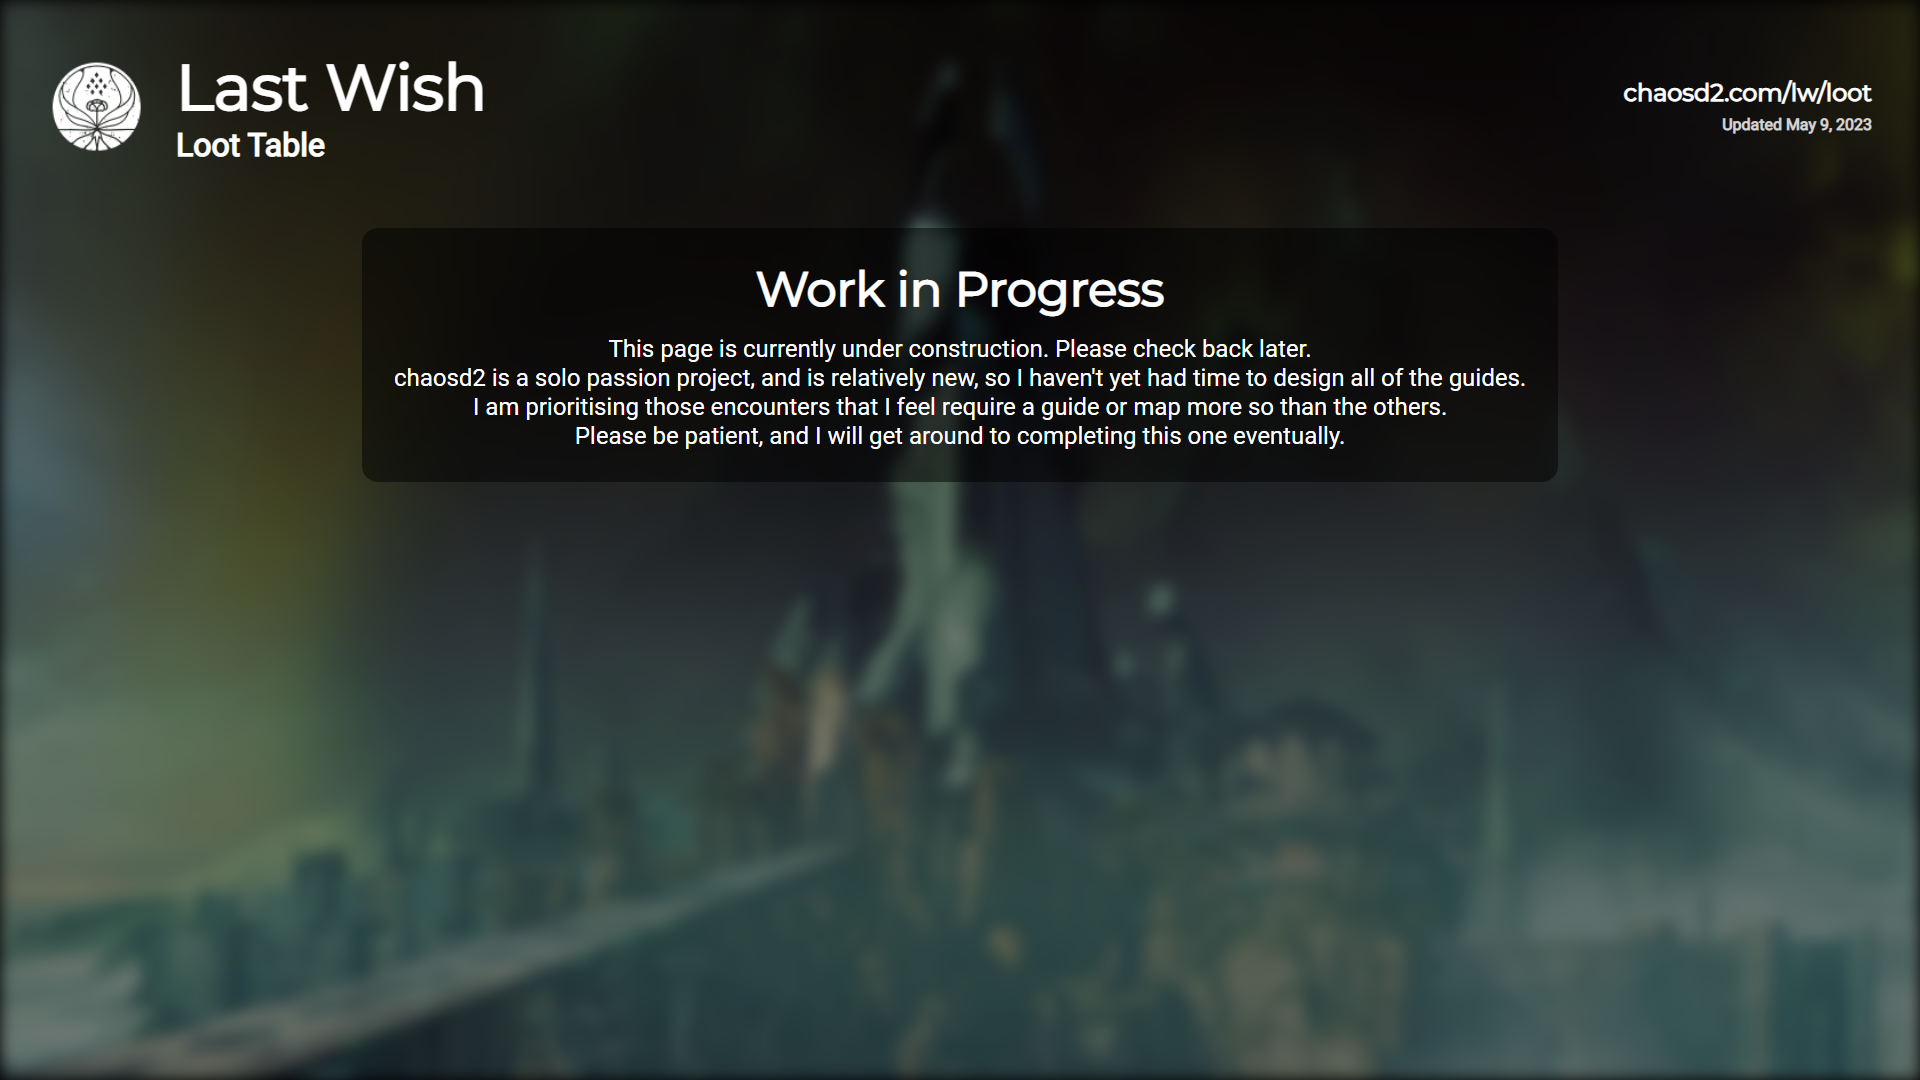
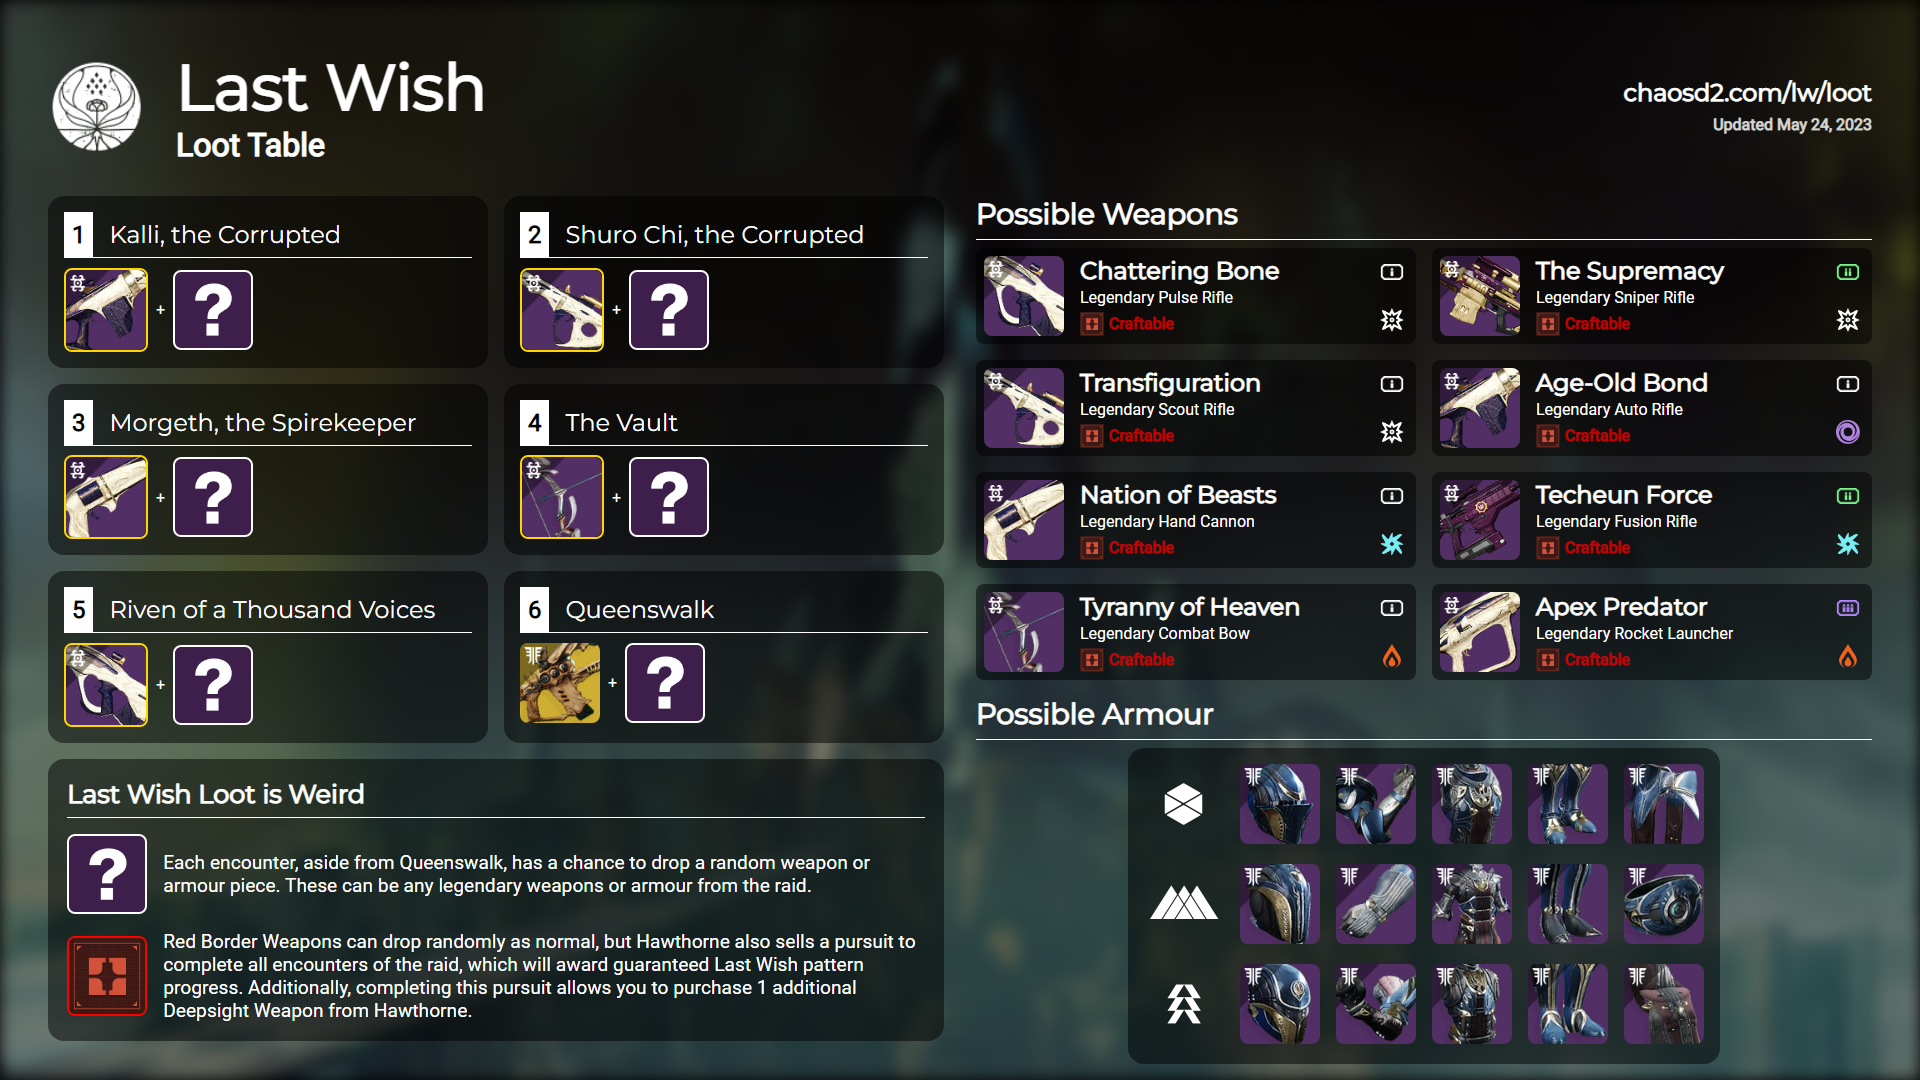
Added Last Wish Loot table

diff --git a/src/app/image_sources/raids/last_wish/loot/page.js b/src/app/image_sources/raids/last_wish/loot/page.js
@@ -3,7 +3,11 @@ import ImageHeader from "@image_components/ImageHeader";
 import Image from "next/image";
 import Background from "@backgrounds/last_wish.jpg";
 import {BungieIcons} from "@components/BungieIcons";
-import ImageUnderConstruction from "@image_components/ImageUnderConstruction";
+import custom from "./custom.module.css";
+import {get_item_definition} from "@lib/bungie/APIHandler";
+import ItemInsert from "@image_components/ItemInsert";
+import CombinedImage from "@image_components/CombinedImage";
+import {ClassIcons} from "@image_components/ClassIcons";
 
 /* TODO: This is a placeholder page. */
 
@@ -14,16 +18,128 @@ export const metadata = {
     }
 }
 
+const armour_hashes = {
+    Titan: [
+        3546379828,
+        1952647501,
+        1146451699,
+        2623446543,
+        3351877674
+    ],
+    Warlock: [
+        1350126011,
+        2850984298,
+        4241329310,
+        1890196228,
+        3570956455
+    ],
+    Hunter: [
+        3423279826,
+        3889633083,
+        2180477077,
+        2298096557,
+        877968616
+    ],
+}
+
 export default function LWLoot() {
     return (
         <body className={styles.main}>
             <Image src={Background} alt={""} className={styles.background}/>
             <div className={styles.wrapper}>
                 <ImageHeader title={"Last Wish"} subtitle={"Loot Table"} icon={BungieIcons.raids.last_wish} href={"chaosd2.com/lw/loot"}/>
-                <div className={styles.content}>
-                    <ImageUnderConstruction/>
+                <div className={custom.content}>
+                    <div className={custom.left}>
+                        <div className={custom.encounter_table}>
+                            <Encounter num={1} name={"Kalli, the Corrupted"} item_hash={424291879}/>
+                            <Encounter num={2} name={"Shuro Chi, the Corrupted"} item_hash={3885259140}/>
+                            <Encounter num={3} name={"Morgeth, the Spirekeeper"} item_hash={70083888}/>
+                            <Encounter num={4} name={"The Vault"} item_hash={3388655311}/>
+                            <Encounter num={5} name={"Riven of a Thousand Voices"} item_hash={501329015}/>
+                            <Encounter num={6} name={"Queenswalk"} item_hash={2069224589} curated={false}/>
+                        </div>
+                        <div className={custom.weird}>
+                            <h1>Last Wish Loot is Weird</h1>
+                            <div>
+                                <RandomIcon/>
+                                <p>Each encounter, aside from Queenswalk, has a chance to drop a random weapon or armour piece. These can be any legendary weapons or armour from the raid.</p>
+                            </div>
+                            <div>
+                                <img src={"https://www.bungie.net/common/destiny2_content/icons/7428ebd2201189d429214a5f3d00ab96.jpg"} className={custom.rb}/>
+                                    <p>Red Border Weapons can drop randomly as normal, but Hawthorne also sells a pursuit to complete all encounters of the raid, which will award guaranteed Last Wish pattern progress. Additionally, completing this pursuit allows you to purchase 1 additional Deepsight Weapon from Hawthorne.</p>
+                            </div>
+                        </div>
+                    </div>
+                    <div className={custom.loot_table}>
+                        <h1>Possible Weapons</h1>
+                        <div className={custom.weapon_table}>
+                            <ItemInsert item_hash={501329015}/>
+                            <ItemInsert item_hash={2884596447}/>
+                            <ItemInsert item_hash={3885259140}/>
+                            <ItemInsert item_hash={424291879}/>
+                            <ItemInsert item_hash={70083888}/>
+                            <ItemInsert item_hash={3591141932}/>
+                            <ItemInsert item_hash={3388655311}/>
+                            <ItemInsert item_hash={1851777734}/>
+                        </div>
+                        <h1>Possible Armour</h1>
+                        <div className={custom.right_bottom}>
+                            <div className={custom.armour_section}>
+                                <div className={custom.armour_table}>
+                                    <ArmourSet armour_hashes={armour_hashes.Titan} class_icon={ClassIcons.Titan}/>
+                                    <ArmourSet armour_hashes={armour_hashes.Warlock} class_icon={ClassIcons.Warlock}/>
+                                    <ArmourSet armour_hashes={armour_hashes.Hunter} class_icon={ClassIcons.Hunter}/>
+                                </div>
+                            </div>
+                        </div>
+                    </div>
                 </div>
             </div>
         </body>
     );
+}
+
+async function Encounter({ num, name, item_hash, curated=true }) {
+    const item_definition = await get_item_definition(item_hash);
+    return (
+        <div className={custom.encounter}>
+            <div className={custom.encounter_header}>
+                <p className={custom.encounter_num}>{num}</p>
+                <p className={custom.encounter_name}>{name}</p>
+            </div>
+            <div className={custom.encounter_items}>
+                <div className={curated ? custom.curated_icon : custom.normal_icon}>
+                    <CombinedImage item={item_definition}/>
+                </div>
+                <p>+</p>
+                <RandomIcon/>
+            </div>
+        </div>
+    )
+}
+
+function RandomIcon() {
+    return (
+        <div className={custom.random_item}>
+            <img src={"https://www.bungie.net/common/destiny2_content/icons/ef1a8374c931321694d6d3d0d3e96247.png"} className={custom.question_mark}/>
+        </div>
+    )
+}
+
+async function ArmourSet({ armour_hashes, class_icon }) {
+    const armour_definitions = [];
+    for (const armour_hash of armour_hashes) {
+        armour_definitions.push(await get_item_definition(armour_hash));
+    }
+    return (
+        <div className={custom.armour_set}>
+            <div className={custom.class_icon_wrapper}>
+                <img src={class_icon} className={custom.class_icon}/>
+            </div>
+            {armour_definitions.map((armour_definition, index) => {
+                return <CombinedImage item={armour_definition} key={index}/>
+            })
+            }
+        </div>
+    )
 }

diff --git a/src/app/image_sources/raids/last_wish/loot/custom.module.css b/src/app/image_sources/raids/last_wish/loot/custom.module.css
@@ -1,0 +1,141 @@
+.content {
+    display: flex;
+    gap: 2rem;
+    box-sizing: border-box;
+}
+
+.content > * {
+    flex: 1;
+}
+
+.encounter_table {
+    display: grid;
+    grid-template-columns: repeat(2, 1fr);
+    gap: 1rem;
+}
+
+.encounter {
+    background: rgba(0, 0, 0, 0.5);
+    border-radius: 1rem;
+    padding: 1rem;
+}
+
+.encounter_header {
+    display: flex;
+    align-items: center;
+    gap: 1rem;
+    margin-bottom: 0.6rem;
+    border-bottom: 1px solid white;
+}
+
+.encounter_num {
+    font-size: 1.5rem;
+    background: white;
+    color: black;
+    padding: 0.5rem;
+    font-family: Roboto, sans-serif;
+    font-weight: bold;
+}
+
+.encounter_name {
+    font-size: 1.5rem;
+    font-family: Montserrat, sans-serif;
+}
+
+.weapon_table {
+    display: grid;
+    grid-template-columns: repeat(2, 1fr);
+    column-gap: 1rem;
+}
+
+.encounter_items {
+    display: flex;
+    gap: 0.5rem;
+    align-items: center;
+}
+
+.curated_icon {
+    border: 2px solid gold;
+    box-sizing: border-box;
+    border-radius: 0.5rem;
+}
+
+.random_item {
+    height: 5rem;
+    width: 5rem;
+    aspect-ratio: 1 / 1;
+    border-radius: 0.5rem;
+    background: #3E1F4B;
+    display: flex;
+    justify-content: center;
+    align-items: center;
+    border: 2px solid white;
+}
+
+.question_mark {
+    width: 80%;
+    height: 80%;
+}
+
+.armour_section {
+    margin-inline: auto;
+    background: rgba(0, 0, 0, 0.5);
+    border-radius: 1rem;
+    padding: 1rem;
+    display: flex;
+}
+
+.right_bottom {
+    display: flex;
+}
+
+.armour_table {
+    display: flex;
+    flex-direction: column;
+    gap: 1rem;
+}
+
+.armour_set {
+    display: flex;
+    gap: 1rem;
+}
+
+.loot_table > h1 {
+    font-size: 1.8rem;
+    padding-bottom: 0.5rem;
+    margin-bottom: 0.5rem;
+    border-bottom: 1px solid white;
+}
+
+.weird {
+    margin-top: 1rem;
+    background: rgba(0, 0, 0, 0.5);
+    border-radius: 1rem;
+    padding: 1.2rem;
+    display: flex;
+    flex-direction: column;
+    gap: 1rem;
+}
+
+.weird > h1 {
+    font-size: 1.6rem;
+    padding-bottom: 0.5rem;
+    border-bottom: 1px solid white;
+}
+
+.weird > div {
+    display: flex;
+    gap: 1rem;
+    align-items: center;
+}
+
+.weird p {
+    font-size: 1.2rem;
+}
+
+.rb {
+    width: 5rem;
+    height: 5rem;
+    border-radius: 0.5rem;
+    border: 2px solid red;
+}
